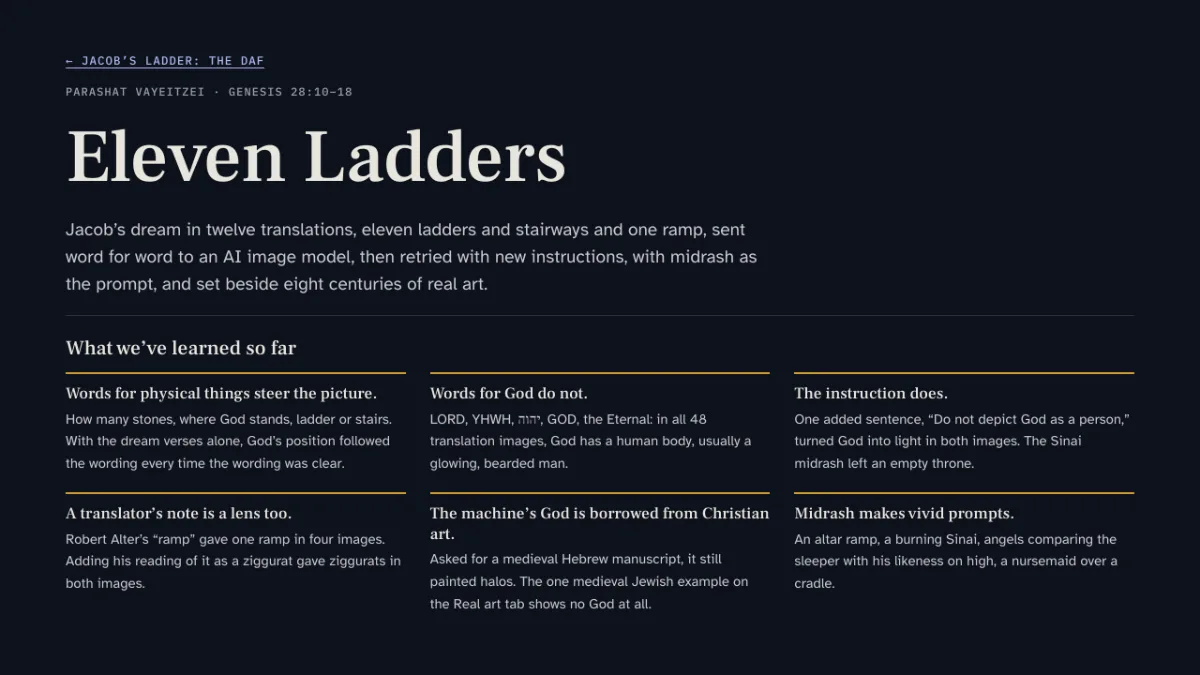
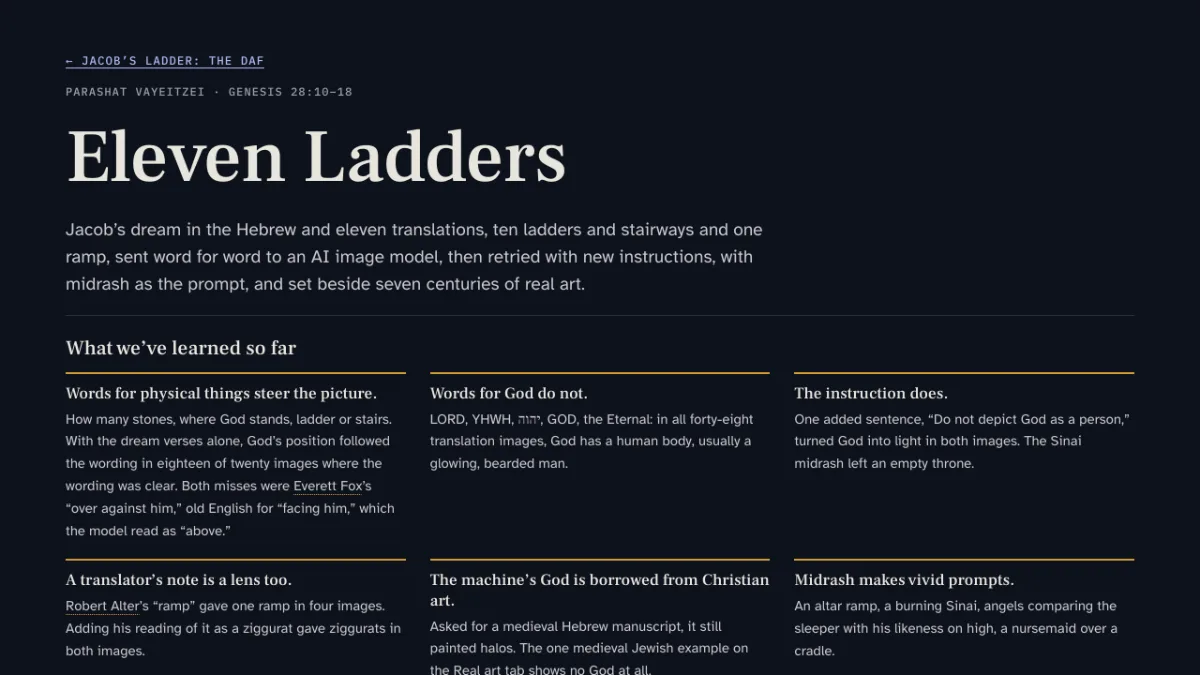
rtr: add Jacob's Dream, move the headshot down to the sign-off
Jacob's Dream joins the slide and Eleven Ladders as a third card. The
headshot leaves the hero for the footer, a size smaller, beside the
email. Copy and thumbnails now match the pages' corrected counts: the
Hebrew and eleven translations, seven centuries of art.

Changed region(s): [[0.0308, 0.6844, 0.9558, 1.0], [0.0617, 0.3111, 0.6475, 0.4356], [0.5858, 0.5911, 0.6167, 0.6533]]

diff --git a/rtr/preview-pcxnbx/index.html b/rtr/preview-pcxnbx/index.html
@@ -115,12 +115,9 @@ body {
   z-index: 1;
   max-width: 1100px;
   margin: 0 auto;
-  padding: var(--space-2xl) var(--space-xl) calc(var(--space-2xl) + var(--space-md));
-  display: grid;
-  grid-template-columns: minmax(0, 1fr) auto;
-  align-items: center;
-  gap: var(--space-2xl);
+  padding: var(--space-2xl) var(--space-xl);
 }
+.hero-text { max-width: 760px; animation: rise 0.8s ease-out both; }
 
 h1 {
   font-family: var(--serif);
@@ -159,22 +156,7 @@ h1 em { font-style: italic; color: var(--gold); }
 .btn-secondary { color: var(--cream); border: 1.5px solid rgba(255, 255, 255, 0.2); }
 .btn-secondary:hover { color: var(--gold); border-color: var(--gold); }
 
-.portrait {
-  margin: 0;
-  width: clamp(220px, 26vw, 320px);
-  aspect-ratio: 1;
-  border-radius: 24px;
-  overflow: hidden;
-  border: 3px solid rgba(212, 168, 83, 0.25);
-  box-shadow: 0 24px 64px rgba(0, 0, 0, 0.4);
-  transform: rotate(2deg);
-}
-.portrait img { display: block; width: 100%; height: 100%; object-fit: cover; }
-
 @keyframes rise { from { opacity: 0; transform: translateY(16px); } }
-@keyframes rise-tilted { from { opacity: 0; transform: translateY(16px) rotate(2deg); } }
-.hero-text { animation: rise 0.8s ease-out both; }
-.portrait { animation: rise-tilted 0.8s ease-out 0.15s both; }
 
 /* ------------------------------------------------------------ learning --- */
 
@@ -204,7 +186,7 @@ h2 {
 
 .cards {
   display: grid;
-  grid-template-columns: repeat(2, minmax(0, 1fr));
+  grid-template-columns: repeat(3, minmax(0, 1fr));
   gap: var(--space-lg);
 }
 
@@ -260,15 +242,15 @@ h2 {
   gap: 0 0.75rem;
   margin: 0;
   font-family: var(--serif);
-  font-size: 1.6rem;
+  font-size: 1.45rem;
   line-height: 1.25;
 }
 .card h3 a { color: var(--navy); text-decoration: none; transition: color 0.2s ease; }
 .card h3 a::after { content: ""; position: absolute; inset: 0; }
 .card:hover h3 a { color: var(--gold-ink); }
-.card h3 [lang="he"] { font-size: 1.25rem; color: var(--ink-soft); }
+.card h3 [lang="he"] { font-size: 1.15rem; color: var(--ink-soft); }
 
-.card .desc { margin: 0; color: var(--ink-soft); font-size: 1.02rem; line-height: 1.65; text-wrap: pretty; }
+.card .desc { margin: 0; color: var(--ink-soft); font-size: 1rem; line-height: 1.65; text-wrap: pretty; }
 
 .go {
   margin-top: auto;
@@ -299,6 +281,28 @@ h2 {
 /* ------------------------------------------------------------- footer ---- */
 
 .site-footer .section-inner { padding-bottom: var(--space-xl); }
+
+.contact {
+  display: grid;
+  grid-template-columns: auto minmax(0, 1fr);
+  align-items: center;
+  gap: var(--space-2xl);
+}
+.contact .eyebrow { margin-bottom: var(--space-sm); }
+
+/* The home page's tilted, gold-edged frame, a size down. */
+.portrait {
+  margin: 0 0 0 var(--space-xs);
+  width: clamp(160px, 20vw, 240px);
+  aspect-ratio: 1;
+  border-radius: 20px;
+  overflow: hidden;
+  border: 3px solid rgba(212, 168, 83, 0.25);
+  box-shadow: 0 20px 48px rgba(0, 0, 0, 0.4);
+  transform: rotate(2deg);
+}
+.portrait img { display: block; width: 100%; height: 100%; object-fit: cover; }
+
 .ask {
   max-width: 26em;
   margin: 0;
@@ -334,18 +338,19 @@ h2 {
 :focus-visible { outline: 2px solid var(--gold); outline-offset: 2px; }
 .paper :focus-visible { outline-color: var(--gold-ink); }
 
+/* Three cards across only when each has room for its paragraph; otherwise one per row. */
+@media (max-width: 1000px) {
+  .cards { grid-template-columns: minmax(0, 600px); }
+}
+
 @media (max-width: 760px) {
   .site-header { padding: var(--space-md); }
-  .hero-inner {
-    grid-template-columns: 1fr;
-    gap: var(--space-xl);
-    padding: var(--space-xl) var(--space-md) var(--space-2xl);
-  }
-  .portrait { order: -1; width: 168px; margin-left: var(--space-xs); }
+  .hero-inner { padding: var(--space-xl) var(--space-md) var(--space-2xl); }
   .section-inner { padding: var(--space-xl) var(--space-md); }
-  .cards { grid-template-columns: 1fr; }
   .card-body { padding: var(--space-md) var(--space-md) var(--space-lg); }
   .soon-panel { padding: var(--space-lg); }
+  .contact { grid-template-columns: 1fr; gap: var(--space-lg); }
+  .portrait { width: 144px; }
 }
 
 @media (prefers-reduced-motion: reduce) {
@@ -381,17 +386,14 @@ h2 {
         <a class="btn btn-secondary" href="/#ABOUT">More about me</a>
       </div>
     </div>
-    <figure class="portrait">
-      <img src="/rtr/img/dan-medwin.jpg" width="639" height="640" alt="Rabbi Dan Medwin" fetchpriority="high">
-    </figure>
   </div>
 </section>
 
 <section class="paper" aria-labelledby="learning">
   <div class="section-inner">
     <p class="eyebrow"><span lang="he" dir="rtl">לִמּוּד</span> Learning</p>
-    <h2 id="learning">How twelve translations redraw Jacob’s dream</h2>
-    <p class="intro">Every translation of Jacob’s dream (Genesis 28:10–18) makes choices: one stone or many, a ladder or a stairway, God above the ladder or beside Jacob. An AI image model mostly draws whichever reading it’s handed, which makes those choices visible. I built two pages from what it drew: a slide and the full study behind it.</p>
+    <h2 id="learning">Jacob’s dream, from words to pictures</h2>
+    <p class="intro">Every translation of Jacob’s dream (Genesis 28:10–18) makes choices a painter has to make too: one stone or many, a ladder or a stairway, God above the ladder or beside Jacob. I used an AI image model to make those choices visible, in a slide and the full study behind it. The third page is a gallery of the dream in eighteen art styles.</p>
 
     <div class="cards">
       <article class="card">
@@ -399,7 +401,7 @@ h2 {
         <div class="card-body">
           <p class="kicker">The slide</p>
           <h3><a href="https://techrabbi.org/jacobs-ladder/">Jacob’s Ladder</a> <span lang="he" dir="rtl">סולם יעקב</span></h3>
-          <p class="desc">A daf (a page of Talmud) puts one text in the middle and its commentaries around it. I built this slide the same way: the verses in the center, surrounded by six key phrases, how twelve translations render each one, and the AI images each wording produced.</p>
+          <p class="desc">A daf (a page of Talmud) puts one text in the middle and its commentaries around it. I built this slide the same way: the verses in the center, surrounded by six key phrases, how eleven translations render each one, and the AI images each wording produced.</p>
           <span class="go" aria-hidden="true">Open the slide <svg viewBox="0 0 16 16" fill="none" stroke="currentColor" stroke-width="1.6" stroke-linecap="round" stroke-linejoin="round"><path d="M3 8h10M9 4l4 4-4 4"/></svg></span>
         </div>
       </article>
@@ -409,8 +411,18 @@ h2 {
         <div class="card-body">
           <p class="kicker">The full study</p>
           <h3><a href="https://techrabbi.org/jacobs-ladder/eleven-ladders/">Eleven Ladders</a></h3>
-          <p class="desc">I sent Jacob’s dream to an AI image model in twelve translations, tried again with new instructions and with midrash (rabbinic interpretation) as the prompt, and set the results beside eight centuries of real art. Words for physical things steered the picture. Words for God did not, until one added instruction changed it. A chevrutah (paired study) lab lets pairs write their own prompts and compare what comes back.</p>
+          <p class="desc">I sent Jacob’s dream to an AI image model in the Hebrew and eleven translations, tried again with new instructions and with midrash (rabbinic interpretation) as the prompt, and set the results beside seven centuries of real art. Words for physical things steered the picture. Words for God did not, until one added instruction changed it. A chevrutah (paired study) lab lets pairs write their own prompts and compare what comes back.</p>
           <span class="go" aria-hidden="true">Read the study <svg viewBox="0 0 16 16" fill="none" stroke="currentColor" stroke-width="1.6" stroke-linecap="round" stroke-linejoin="round"><path d="M3 8h10M9 4l4 4-4 4"/></svg></span>
+        </div>
+      </article>
+
+      <article class="card">
+        <img class="shot" src="/rtr/img/jacobs-dream.webp" width="1200" height="675" alt="The Jacob’s Dream page: its title, the verses, the Hebrew word sulam in gold, and the first row of the gallery.">
+        <div class="card-body">
+          <p class="kicker">The gallery</p>
+          <h3><a href="https://techrabbi.org/jacobs-ladder/dream/">Jacob’s Dream</a></h3>
+          <p class="desc">I made this gallery of Genesis 28:11–12 in eighteen art styles, from a Sephardic illuminated manuscript to claymation, each with an eight-second looping animation. Following Jewish practice, none of the images show God. Each stairway rises into sky and light, and the angels (malachim, a word that also means messengers) appear as flames, birds, and light.</p>
+          <span class="go" aria-hidden="true">See the gallery <svg viewBox="0 0 16 16" fill="none" stroke="currentColor" stroke-width="1.6" stroke-linecap="round" stroke-linejoin="round"><path d="M3 8h10M9 4l4 4-4 4"/></svg></span>
         </div>
       </article>
     </div>
@@ -431,7 +443,15 @@ h2 {
 
 <footer class="site-footer">
   <div class="section-inner">
-    <p class="ask">Questions, or something you’d like to learn together? I’d love to hear from you at <a class="mail" href="#"><span class="addr">my email</span></a>.</p>
+    <div class="contact">
+      <figure class="portrait">
+        <img src="/rtr/img/dan-medwin.jpg" width="639" height="640" alt="Rabbi Dan Medwin" loading="lazy">
+      </figure>
+      <div>
+        <p class="eyebrow">Rabbi Dan Medwin</p>
+        <p class="ask">Questions, or something you’d like to learn together? I’d love to hear from you at <a class="mail" href="#"><span class="addr">my email</span></a>.</p>
+      </div>
+    </div>
     <div class="fine">
       <span>&copy; 2026 Tech Rabbi · Rabbi Dan Medwin</span>
       <a href="/">techrabbi.org</a>
